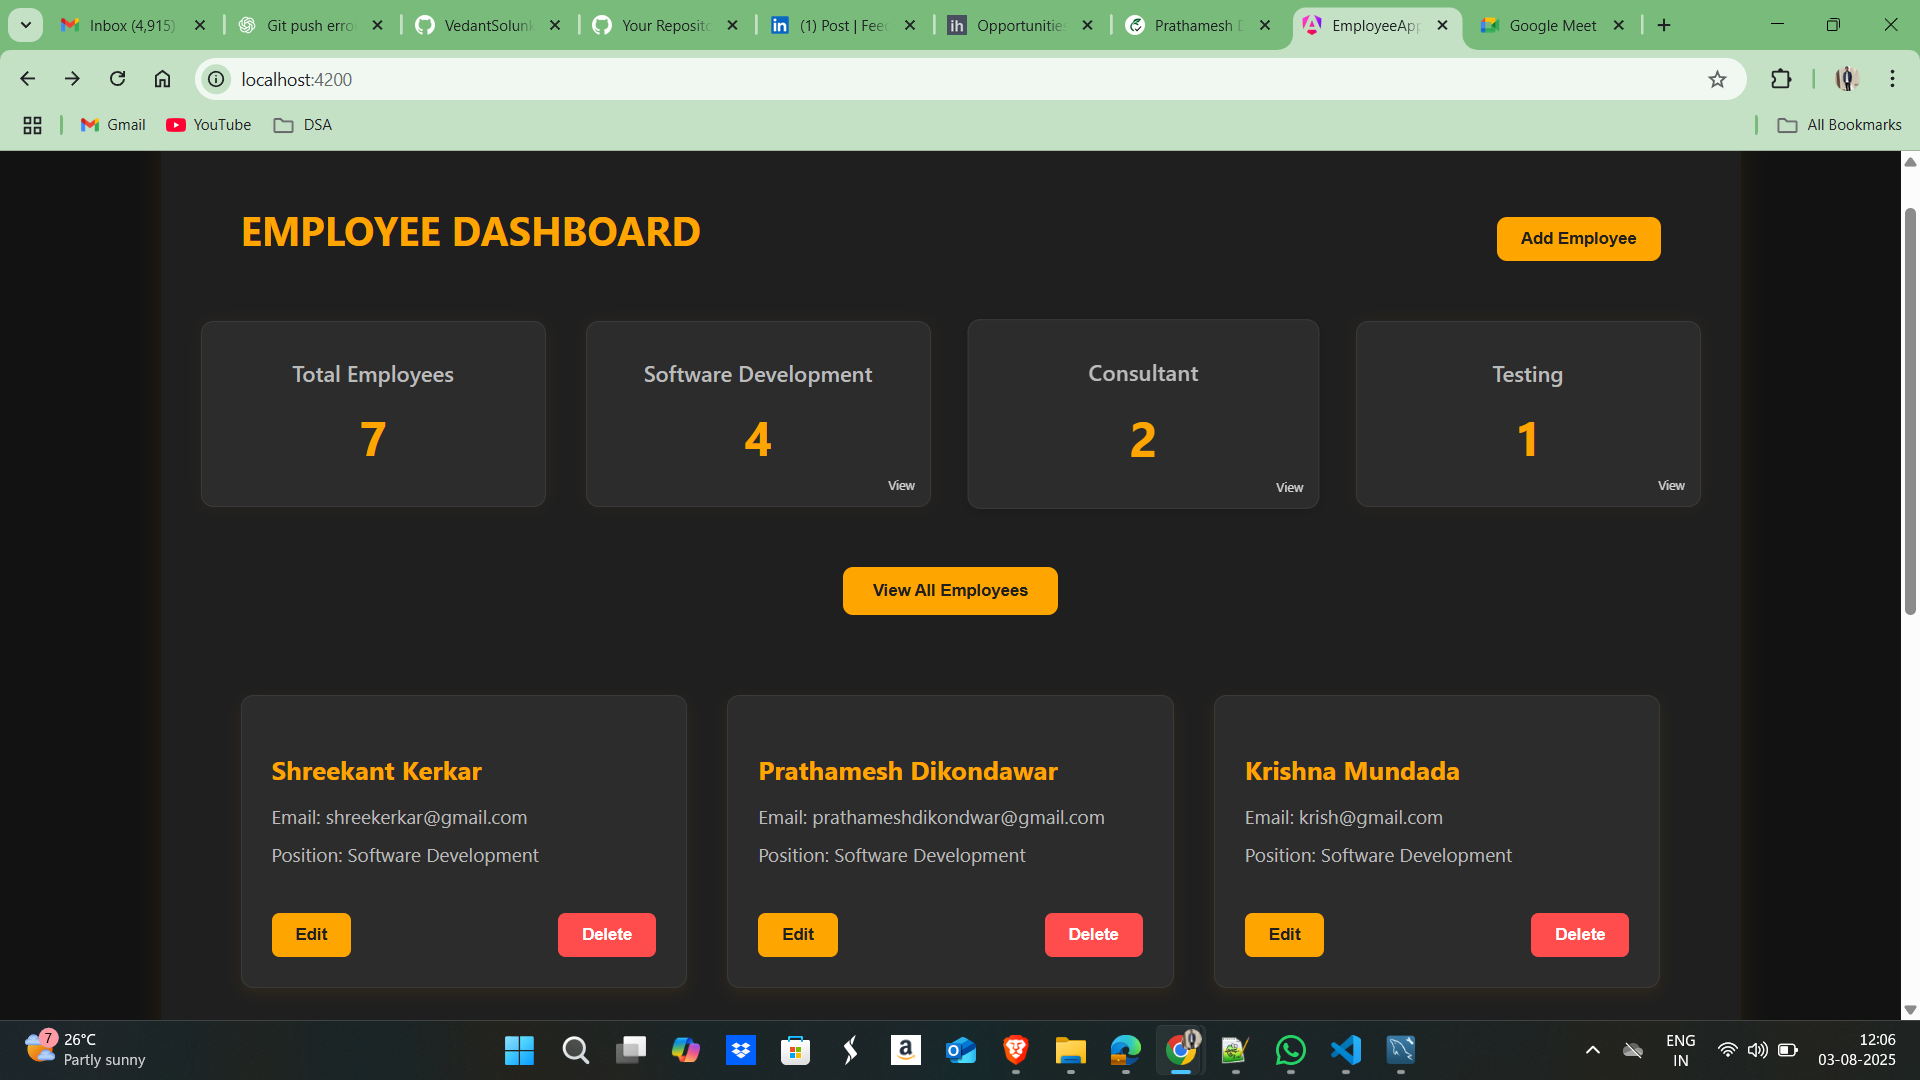
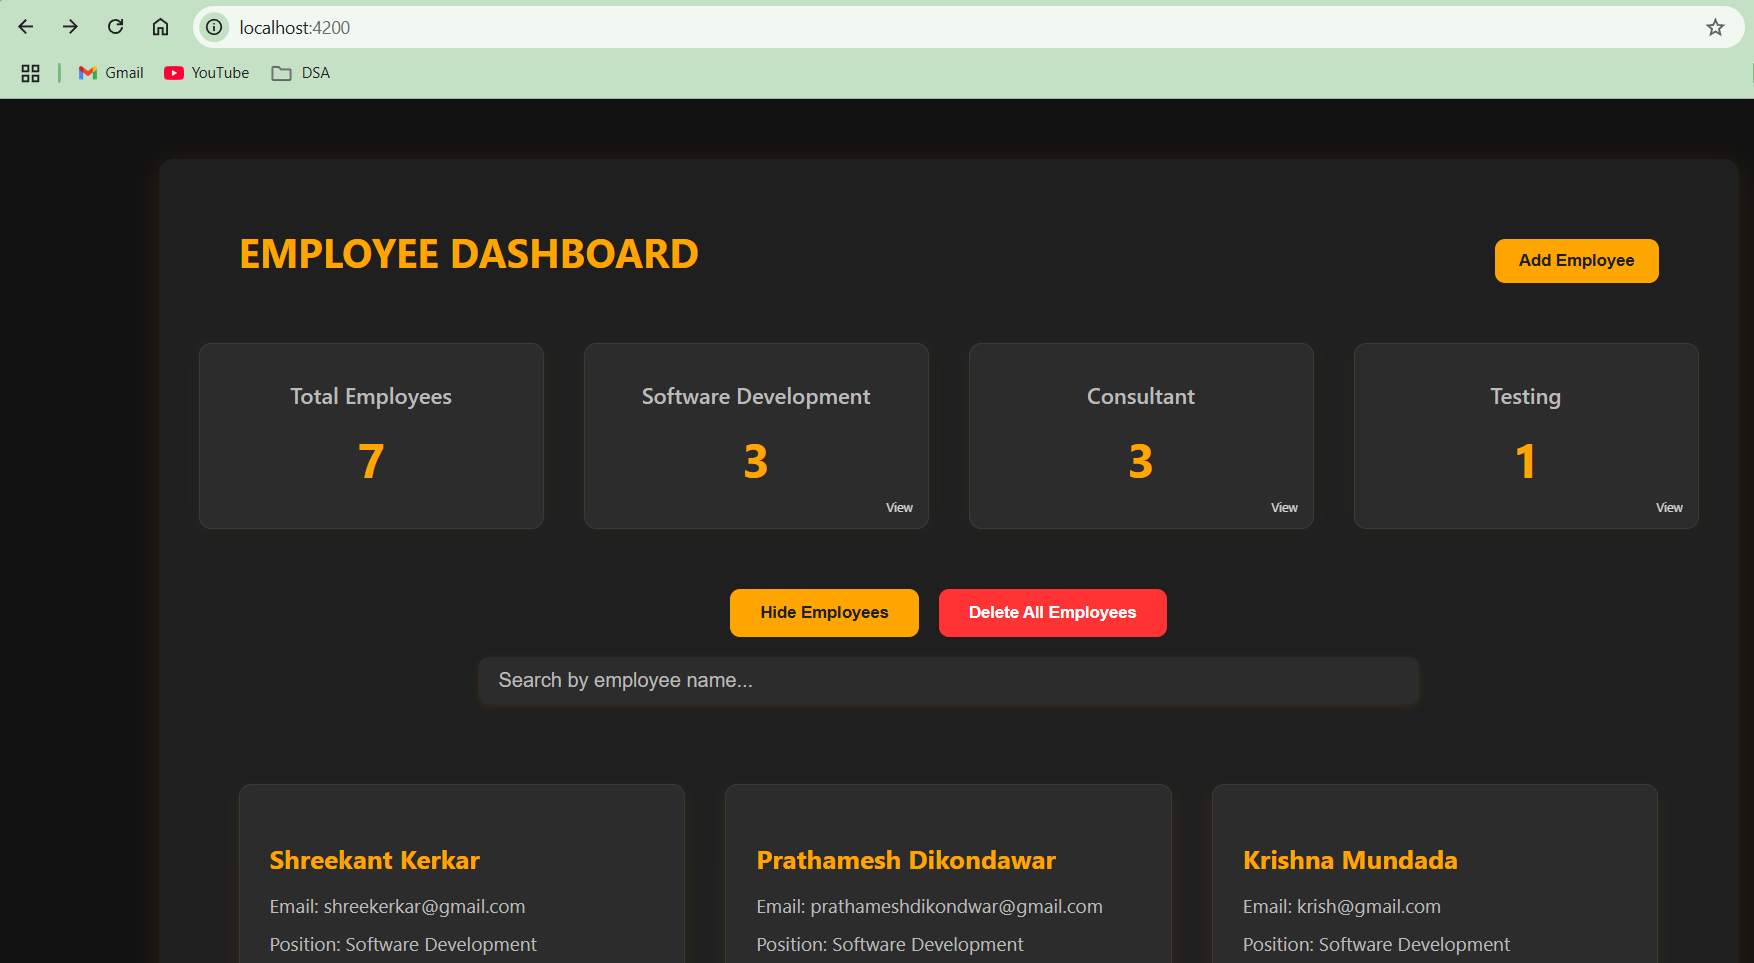
Delete all and Search Bar added

diff --git a/employee_app/src/app/components/home-page/home-page.component.ts b/employee_app/src/app/components/home-page/home-page.component.ts
@@ -3,23 +3,21 @@ import { EmployeeService, Employee } from '../../services/employee.service';
 import { Router } from '@angular/router';
 import { CommonModule } from '@angular/common';
 import { RouterModule } from '@angular/router';
+import { FormsModule } from '@angular/forms';
 
 @Component({
   selector: 'app-home-page',
   templateUrl: './home-page.component.html',
-  imports: [CommonModule, RouterModule],
+  imports: [CommonModule, RouterModule,FormsModule],
   styleUrls: ['./home-page.component.css']
 })
 export class HomePageComponent implements OnInit {
   employees: Employee[] = [];
   positions: string[] = [];
-  // filteredEmployees: Employee[] = [];
-  // showAllEmployees: boolean = true;
-
   currentPosition: string | null = null;
   showAllEmployees = false;
   filteredEmployees: Employee[] = [];
-
+  searchTerm: string = '';
 
   constructor(private employeeService: EmployeeService, private router: Router) {}
 
@@ -45,14 +43,11 @@ export class HomePageComponent implements OnInit {
     return this.employees.filter(emp => emp.position === position).length;
   }
 
-  // filterByPosition(position: string): void {
-  //   this.filteredEmployees = this.employees.filter(emp => emp.position === position);
-  //   this.showAllEmployees = false;
-  // }
-
   viewAllEmployees(): void {
     this.filteredEmployees = [...this.employees];
     this.showAllEmployees = true;
+    this.currentPosition = null;
+    this.searchTerm = '';
   }
 
   goToAddEmployee(): void {
@@ -60,24 +55,18 @@ export class HomePageComponent implements OnInit {
   }
 
   editEmployee(id: number): void {
-    if (!id) {
-      console.warn('Invalid ID');
-      return;
-    }
+    if (!id) return;
     this.router.navigate(['/edit', id]);
   }
+
   hideAllEmployees(): void {
     this.filteredEmployees = [];
     this.showAllEmployees = false;
+    this.searchTerm = '';
   }
 
-
   deleteEmployee(id?: number): void {
-    if (!id) {
-      console.warn('Invalid ID');
-      return;
-    }
-
+    if (!id) return;
     const confirmDelete = confirm('Are you sure you want to delete this employee?');
     if (!confirmDelete) return;
 
@@ -86,7 +75,6 @@ export class HomePageComponent implements OnInit {
         this.employees = this.employees.filter(emp => emp.id !== id);
         this.filteredEmployees = this.filteredEmployees.filter(emp => emp.id !== id);
         this.extractUniquePositions();
-        console.log(`Employee with ID ${id} deleted`);
       },
       error: (err) => {
         console.error('Error deleting employee:', err);
@@ -94,9 +82,28 @@ export class HomePageComponent implements OnInit {
     });
   }
 
+  deleteAllEmployees(): void {
+    const confirmDelete = confirm('Are you sure you want to delete ALL employees?');
+    if (!confirmDelete) return;
+
+    const idsToDelete = this.employees.map(emp => emp.id).filter(id => id !== undefined) as number[];
+
+    idsToDelete.forEach(id => {
+      this.employeeService.delete(id).subscribe({
+        next: () => {
+          this.employees = this.employees.filter(emp => emp.id !== id);
+          this.filteredEmployees = this.filteredEmployees.filter(emp => emp.id !== id);
+          this.extractUniquePositions();
+        },
+        error: (err) => console.error('Error deleting employee:', err)
+      });
+    });
+  }
+
   filterByPosition(pos: string) {
     this.currentPosition = pos;
     this.showAllEmployees = false;
+    this.searchTerm = '';
     this.filteredEmployees = this.employees.filter(emp => emp.position === pos);
   }
 
@@ -105,4 +112,9 @@ export class HomePageComponent implements OnInit {
     this.filteredEmployees = [];
   }
 
+  onSearch(): void {
+    const lowerTerm = this.searchTerm.toLowerCase();
+    this.filteredEmployees = this.employees.filter(emp => emp.name.toLowerCase().includes(lowerTerm));
+    this.currentPosition = null;
+  }
 }

diff --git a/employee_app/src/app/components/home-page/home-page.component.html b/employee_app/src/app/components/home-page/home-page.component.html
@@ -10,36 +10,27 @@
       <div class="stat-value">{{ employees.length }}</div>
     </div>
 
-    <div
-      class="stat-card clickable"
-      *ngFor="let pos of positions"
-    >
+    <div class="stat-card clickable" *ngFor="let pos of positions">
       <div class="stat-title">{{ pos }}</div>
       <div class="stat-value">{{ getCountByPosition(pos) }}</div>
-
-      <!-- View/Hide tag in bottom-right -->
-      <span
-        class="card-tag"
-        *ngIf="currentPosition !== pos"
-        (click)="filterByPosition(pos)"
-      >
-        View
-      </span>
-
-      <span
-        class="card-tag"
-        *ngIf="currentPosition === pos"
-        (click)="clearFilteredPosition()"
-      >
-        Hide
-      </span>
+      <span class="card-tag" *ngIf="currentPosition !== pos" (click)="filterByPosition(pos)">View</span>
+      <span class="card-tag" *ngIf="currentPosition === pos" (click)="clearFilteredPosition()">Hide</span>
     </div>
   </div>
 
-  <!-- Show "View All" only when no position is selected -->
-  <div class="center mt-2" *ngIf="!currentPosition">
+  <div class="center mt-2 action-group" *ngIf="!currentPosition">
     <button (click)="viewAllEmployees()" *ngIf="!showAllEmployees">View All Employees</button>
     <button (click)="hideAllEmployees()" *ngIf="showAllEmployees">Hide Employees</button>
+    <button (click)="deleteAllEmployees()" *ngIf="employees.length" class="btn-delete-all">Delete All Employees</button>
+  </div>
+
+  <div class="search-bar" *ngIf="filteredEmployees.length">
+    <input
+      type="text"
+      [(ngModel)]="searchTerm"
+      (input)="onSearch()"
+      placeholder="Search by employee name..."
+    />
   </div>
 
   <div class="employee-list">
@@ -49,19 +40,8 @@
         <p>Email: {{ emp.email }}</p>
         <p>Position: {{ emp.position }}</p>
         <div class="action-buttons">
-          <button
-            class="btn-edit"
-            *ngIf="emp.id !== undefined"
-            (click)="editEmployee(emp.id)">
-            Edit
-          </button>
-
-          <button
-            class="btn-delete"
-            *ngIf="emp.id !== undefined"
-            (click)="deleteEmployee(emp.id)">
-            Delete
-          </button>
+          <button class="btn-edit" *ngIf="emp.id !== undefined" (click)="editEmployee(emp.id)">Edit</button>
+          <button class="btn-delete" *ngIf="emp.id !== undefined" (click)="deleteEmployee(emp.id)">Delete</button>
         </div>
       </div>
     </ng-container>

diff --git a/employee_app/src/app/components/home-page/home-page.component.css b/employee_app/src/app/components/home-page/home-page.component.css
@@ -46,7 +46,7 @@ h2 {
   transition: transform 0.3s ease, box-shadow 0.3s ease;
   border: 1px solid #3a3a3a;
   box-shadow: 0 0 12px rgba(255, 165, 0, 0.05);
-  
+
 }
 
 
@@ -261,6 +261,40 @@ button:hover {
   transition: all 0.2s ease;
 }
 
+.search-bar {
+  text-align: center;
+  margin-top: 1rem;
+}
+
+.search-bar input {
+  padding: 0.6rem 1rem;
+  width: 60%;
+  border: none;
+  border-radius: 8px;
+  font-size: 1rem;
+  background-color: #2c2c2c;
+  color: #fff;
+  outline: none;
+  box-shadow: 0 2px 6px rgba(255, 165, 0, 0.1);
+}
+
+.search-bar input::placeholder {
+  color: #bbbbbb;
+}
+
+.action-group {
+  gap: 1rem;
+  flex-wrap: wrap;
+}
+
+.btn-delete-all {
+  background-color: #ff3333;
+  color: white;
+}
+
+.btn-delete-all:hover {
+  background-color: #cc0000;
+}
 
 
 
